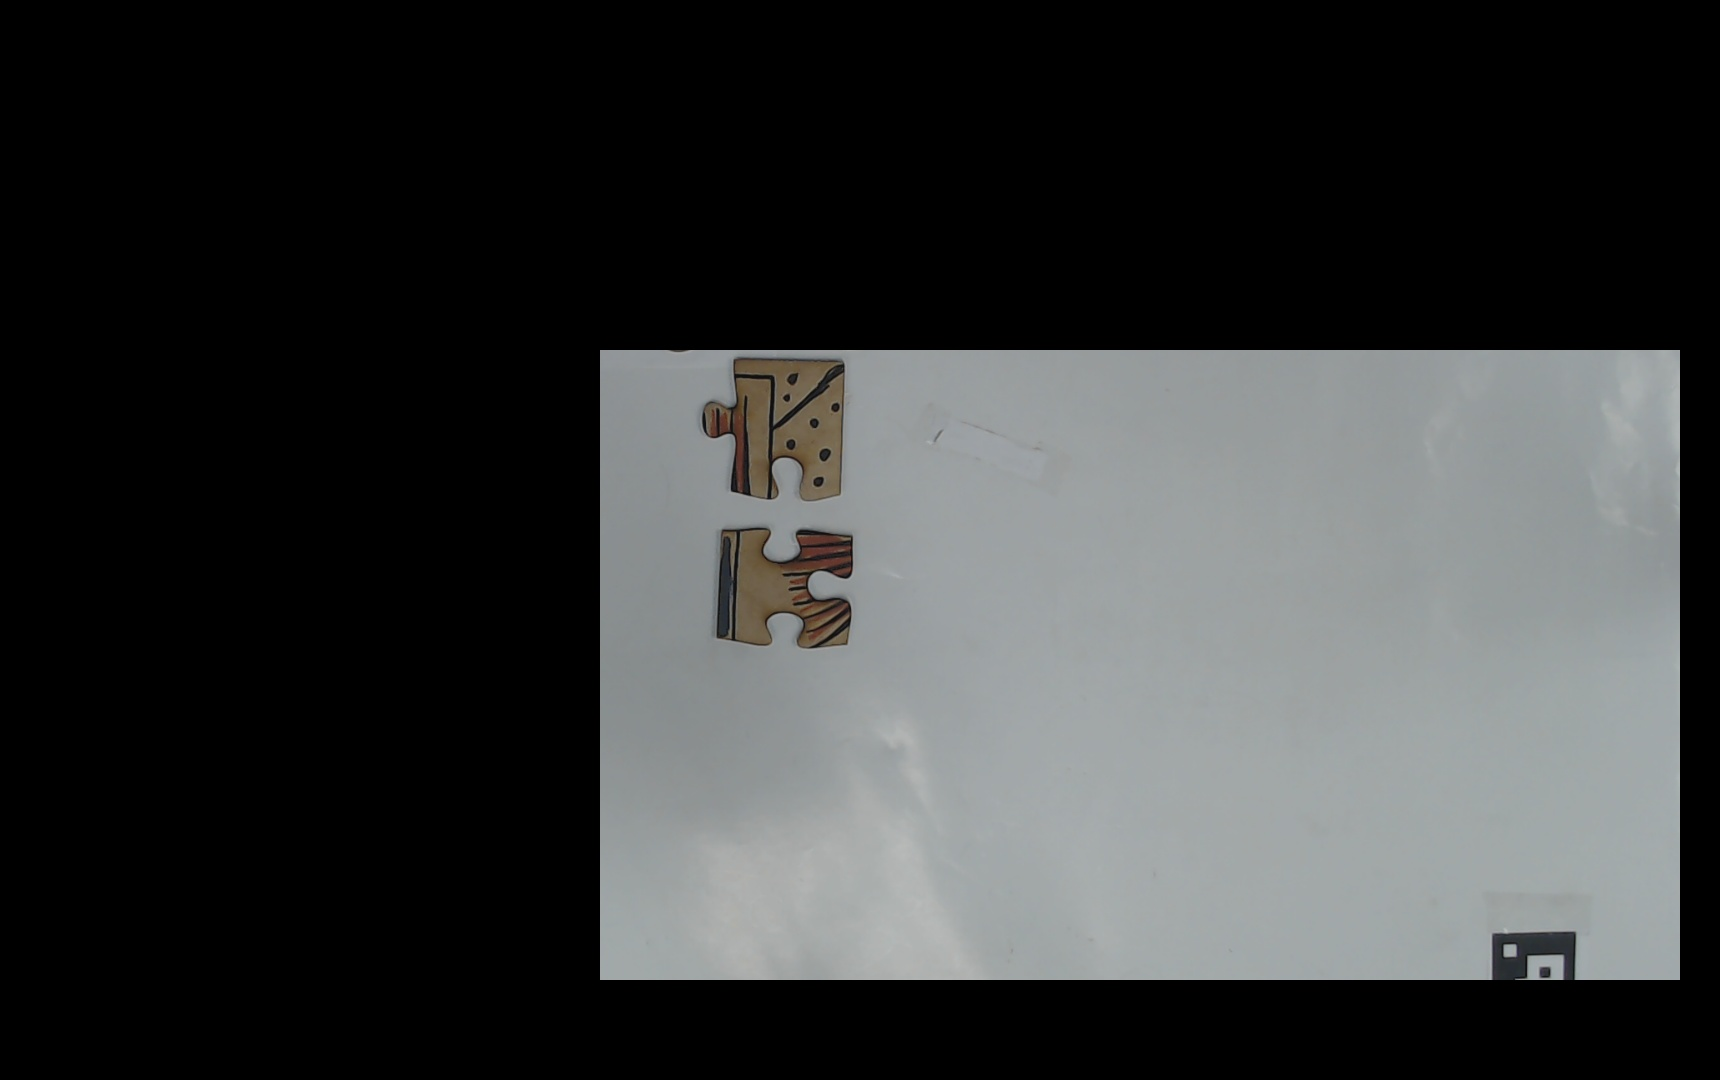
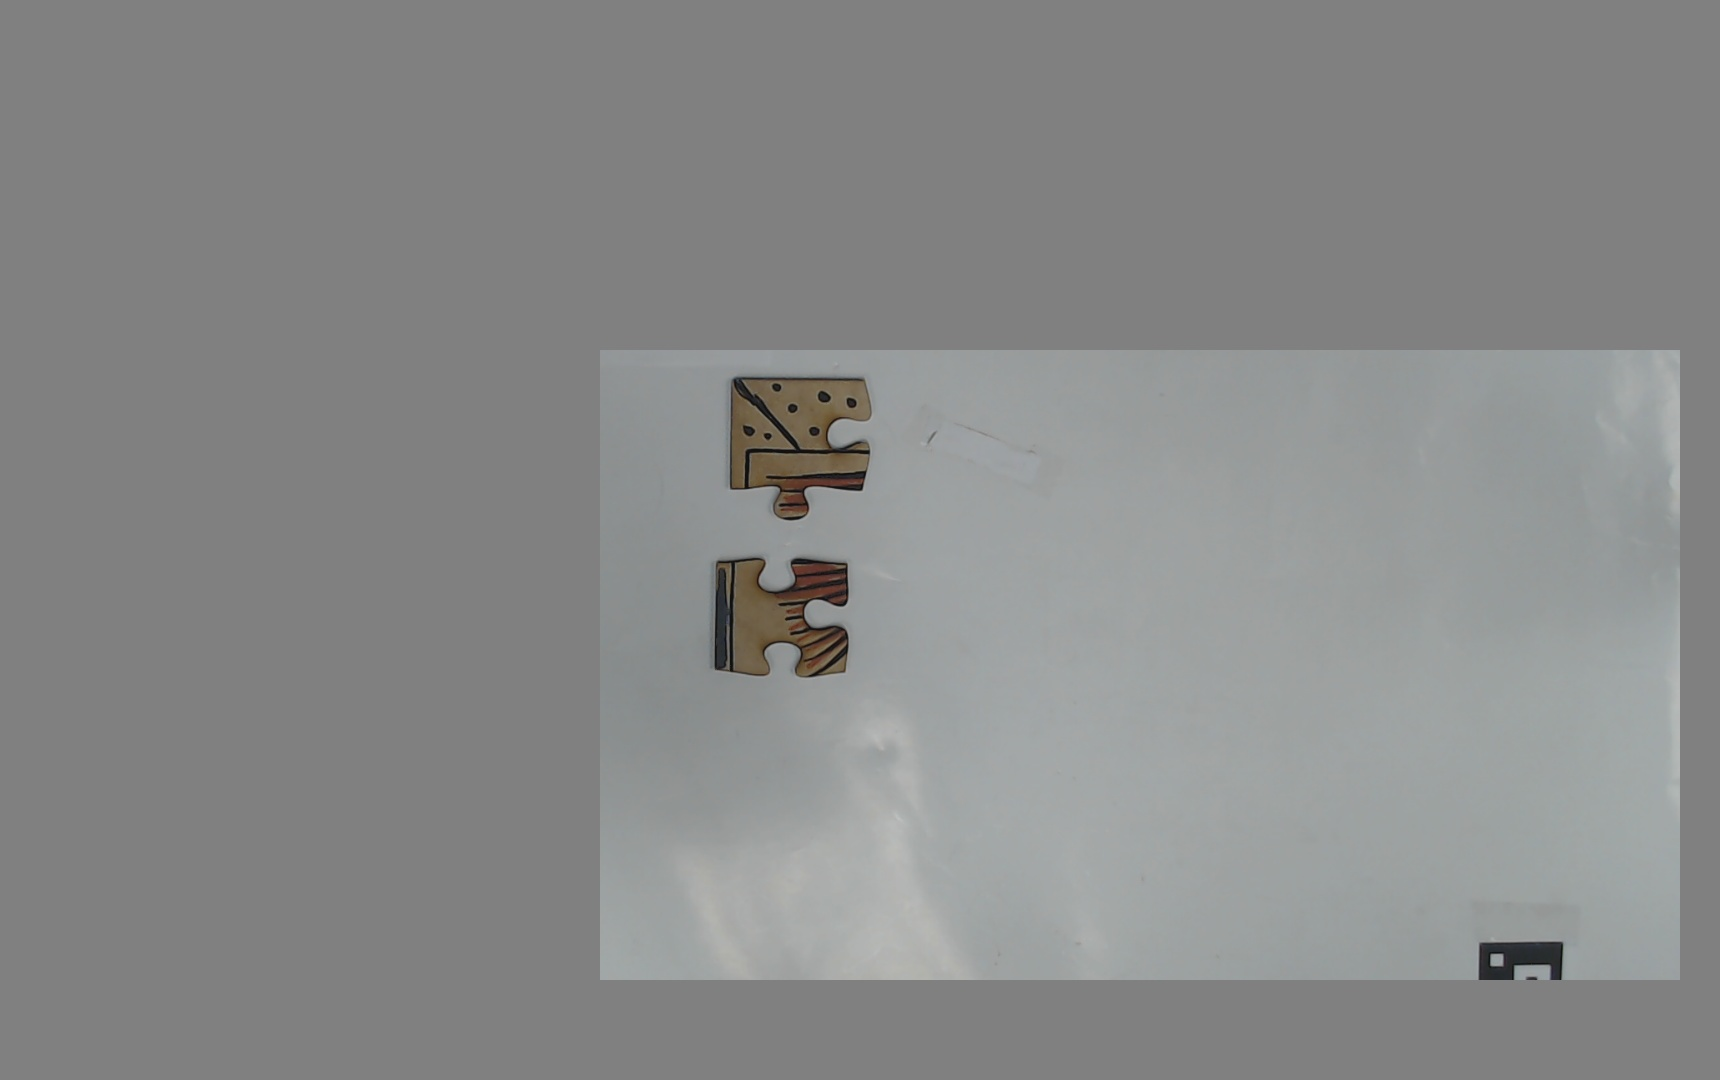
testing contour matching

diff --git a/scripts/solver.py b/scripts/solver.py
@@ -83,7 +83,8 @@ class Solver:
     def __init__(self, detector):
 
         self.pub_clearing_plan = rospy.Publisher("/solver/clearing_plan",  Image, queue_size=1)
-        self.vision = vision.VisionMatcher('/home/me134/me134ws/src/HW1/done_exploded_colored4.jpg')
+        self.pub_contour_matching = rospy.Publisher("/solver/matching",  Image, queue_size=1)
+        self.vision = vision.VisionMatcher('/home/me134/me134ws/src/HW1/done_exploded_colored7.jpg')
 
         # Stack
         self.tasks = TaskStack()
@@ -267,8 +268,12 @@ class Solver:
 
         elif curr_task == SolverTask.MatePiece:
             # Matches the two biggest pieces
+            # Makes first piece the main puzzle
+            self.tasks.pop()
             pieces = sorted(self.detector.pieces, key=lambda x: -x.area)
-            print(pieces)
+            loc1, loc2 = np.array(pieces[0].get_location()), np.array(pieces[1].get_location())
+            if abs(np.dot(loc1 - loc2, [-1, -1])) < .3:
+                pieces[0], pieces[1] = pieces[1], pieces[0]
             self.puzzle_grid.piece = (pieces[0])
             dx, dy, dtheta = ToThomasPuzzlePiece(pieces[1]).find_contour_match(ToThomasPuzzlePiece(pieces[0]), match_threshold=7)
             if dx == 0 and dy == 0:
@@ -280,6 +285,13 @@ class Solver:
                 self.tasks.push(SolverTask.MoveArm, task_data={'dest': pieces[1].get_location() + np.array([dx, dy]), 'turn': dtheta})
             self.tasks.push(SolverTask.LiftPiece)
             self.tasks.push(SolverTask.MoveArm, task_data={'dest': pieces[1].get_location()})
+            plan_img = np.zeros((1080, 1720, 3), dtype=np.uint8) + 255
+            dummy_piece = pieces[1].copy()
+            dummy_piece.rotate(dtheta)
+            dummy_piece.move_to(np.array(dummy_piece.get_location()[0]) + dx, np.array(dummy_piece.get_location()[1]) + dy)
+            plan_img[pieces[0].mask.astype(bool)] += np.array(pieces[0].color).astype(np.uint8)
+            plan_img[dummy_piece.mask.astype(bool)] += np.array(pieces[1].color).astype(np.uint8)
+            self.pub_contour_matching.publish(self.detector.bridge.cv2_to_imgmsg(plan_img, "bgr8"))
 
         # HIGH-LEVEL TASKS
         elif curr_task == SolverTask.SeparatePieces:
@@ -352,7 +364,7 @@ class Solver:
             def processpiece(i, first=False):
                 offset = place_offset(locations[i]) if not first else 0
                 # offset = 0
-                loc = np.array([720, 350]) + temp_grid.grid_to_pixel(locations[i])
+                loc = np.array([720, 380]) + temp_grid.grid_to_pixel(locations[i])
                 piece = self.piece_list[i]
                 # Color selected piece
                 color = np.array(piece.color).astype(np.uint8)

diff --git a/scripts/thomas_detector.py b/scripts/thomas_detector.py
@@ -372,7 +372,7 @@ class ThomasPuzzlePiece:
     #   Check the Translation/Orientation/Match between 2 Sides
     #
     def compareSides(self, sideA, sideB):
-        center = self.get_location()
+        center = np.array(self.img.shape)/2
         # Grab the points from the two sides, relative to the center.
         M  = SIDEPOINTS
         iA = [int(round(j*(len(sideA)-1)/(M-1))) for j in range(M)]
@@ -417,13 +417,16 @@ class ThomasPuzzlePiece:
         # Finds the transform from this piece to other_piece based on contour
         sidesA = other_piece.get_sides()
         sidesB = self.get_sides()
+        best_err = np.inf
+        ans = (0, 0, 0)
+        A_offset = np.array(other_piece.get_location()) + np.array(other_piece.img.shape)/2 - np.array(self.get_location()) - np.array(self.img.shape)/2
         for iA in range(len(sidesA)):
             for iB in range(len(sidesB)):
-                (dx, dy, dtheta, err) = self.compareSides(sidesA[iA], sidesB[iB])
-                if err < match_threshold:
-                    return dx, dy, dtheta
+                (dx, dy, dtheta, err) = self.compareSides(sidesA[iA] + A_offset, sidesB[iB])
+                if err < match_threshold and best_err > err:
+                    ans = (dx, dy, dtheta)
         
-        return 0, 0, 0
+        return ans
         
 
 

diff --git a/scripts/piece_outline_detector.py b/scripts/piece_outline_detector.py
@@ -316,12 +316,12 @@ class Detector:
         if white_list:
             if black_list:
                 rospy.logwarn("[Detector] Received both white list and black list, using only white list")
-            img = self.last_processed_img if merge else np.zeros_like(self.last_processed_img, dtype=np.uint8)
+            img = self.last_processed_img if merge else np.zeros_like(self.last_processed_img, dtype=np.uint8) + 128
             for shape in white_list:
                 # Assume rectangle for now
                 img[shape[1]:shape[3], shape[0]:shape[2]] = self.latestImage[shape[1]:shape[3], shape[0]:shape[2]]
         elif black_list:
-            img = self.latestImage if merge else np.zeros_like(self.last_processed_img, dtype=np.uint8)
+            img = self.latestImage if merge else np.zeros_like(self.last_processed_img, dtype=np.uint8) + 128
             for shape in black_list:
                 # Assume rectangle for now
                 img[shape[1]:shape[3], shape[0]:shape[2]] = self.last_processed_img[shape[1]:shape[3], shape[0]:shape[2]]
